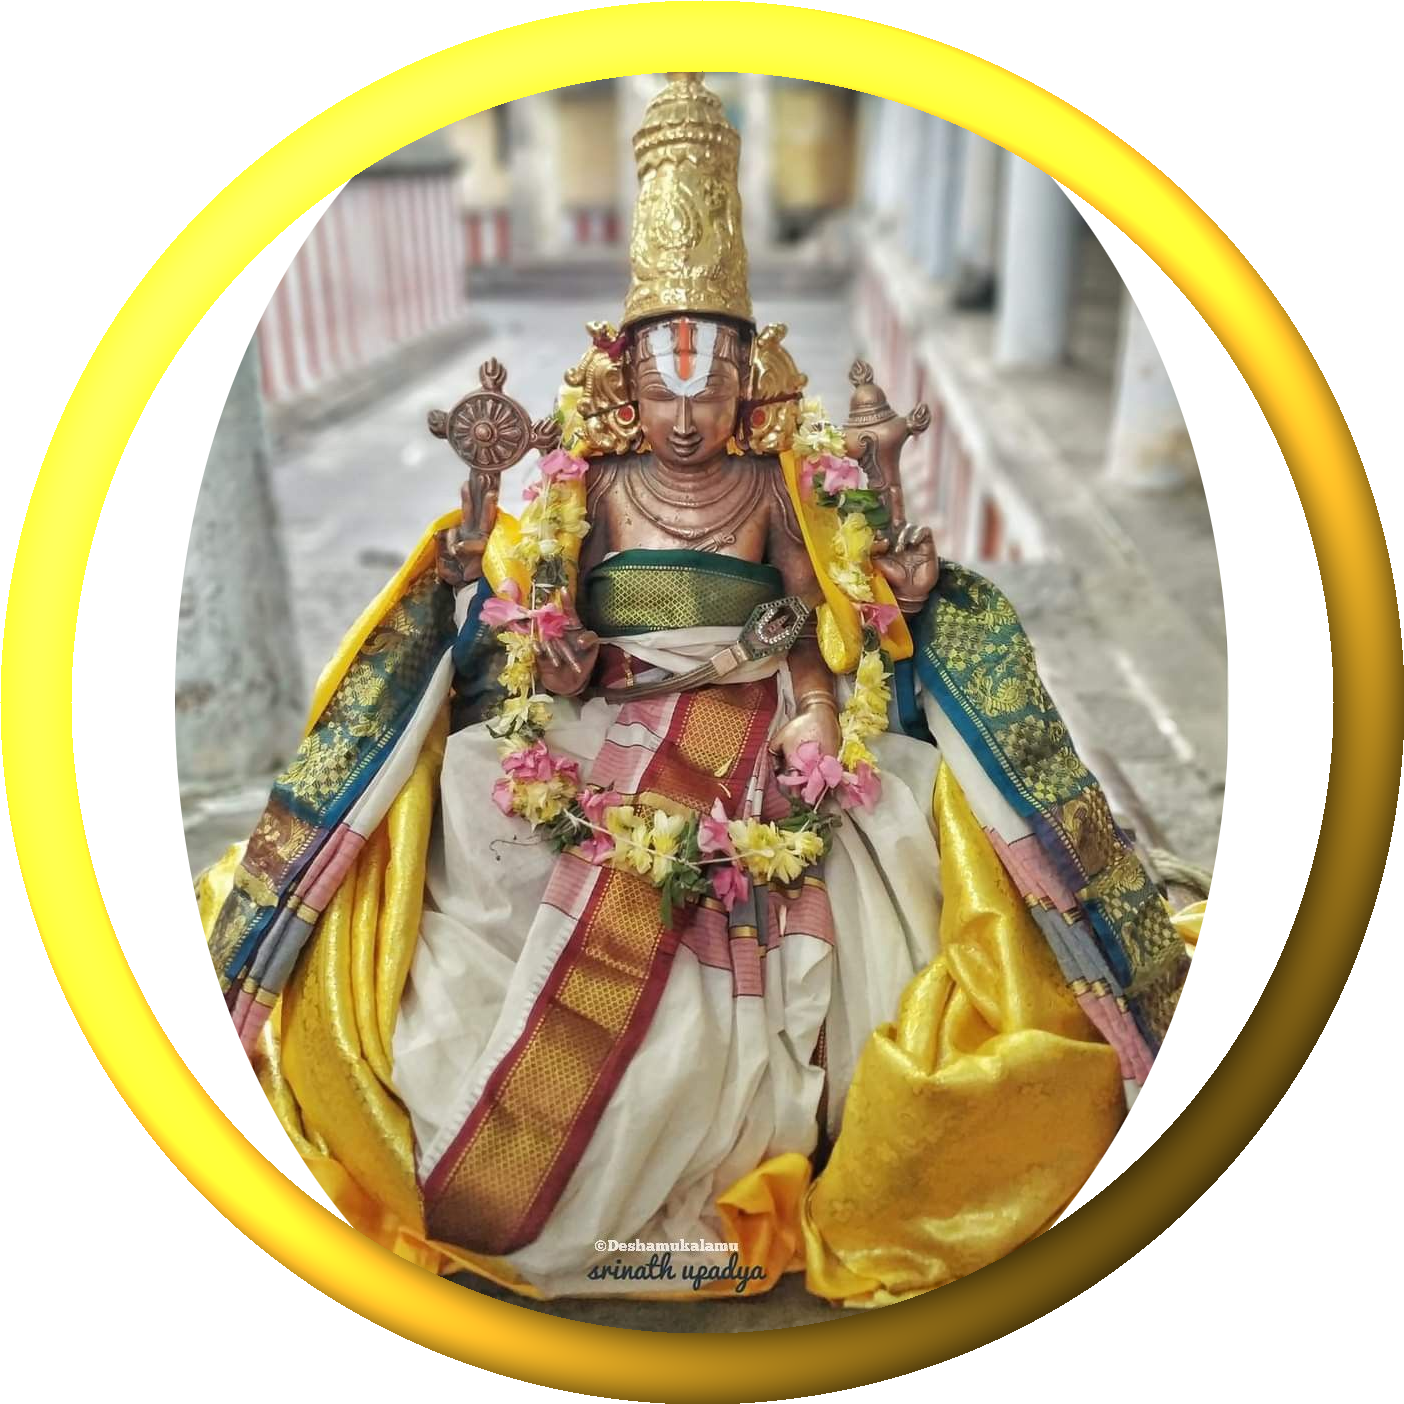
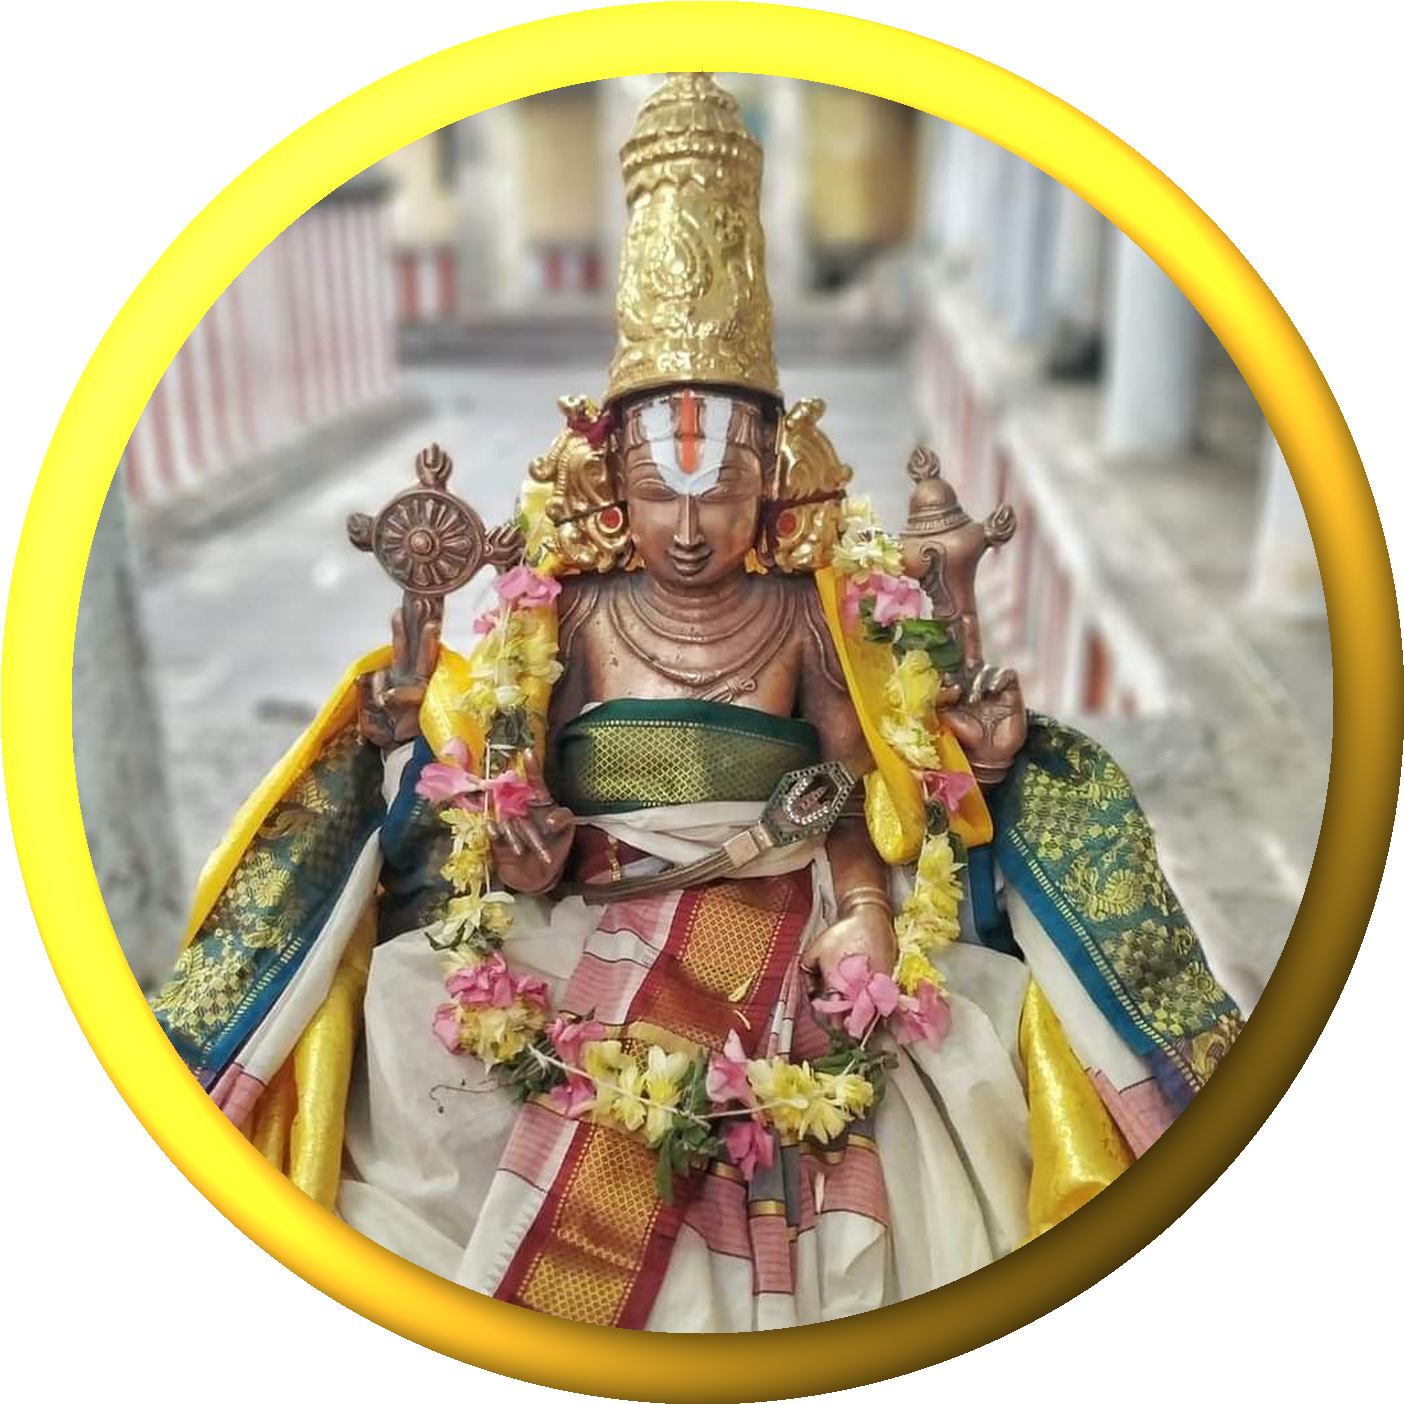
Made edits interactive

diff --git a/process_images.py b/process_images.py
@@ -1,9 +1,12 @@
 import os
 from collections import Counter
-from PIL import Image
+from PIL import Image, ImageTk
 import numpy as np
 import math
-
+try:
+    import tkinter as tk
+except ImportError:
+    import Tkinter as tk
 def get_background_color(image, default_color=(0, 0, 0, 0)):
     """
     Determines a suitable background color. First, it checks the corners for a
@@ -77,7 +80,8 @@ def get_content_radius(image):
     center_x, center_y = width / 2, height / 2
 
     # If the corners are transparent, it's likely non-rectangular content.
-    # In this case, we scan for the 'true' radius.
+    # In this case, we scan for the 'true' radius.s
+    
     corners_transparent = all(
         image.getpixel((x, y))[3] == 0
         for x in [0, width - 1] for y in [0, height - 1]
@@ -98,7 +102,153 @@ def get_content_radius(image):
         # to ensure the corners are not clipped.
         return math.ceil(math.sqrt(width**2 + height**2) / 2)
 
-def make_images_circular(input_dir="images", output_dir="images_circular", frame_width_percent=5.0, light_source="NW", overlay_frame=True):
+class InteractiveImageEditor:
+    def __init__(self, master, original_img, output_path, frame_radius, frame_width, bg_color, light_angle):
+        self.master = master
+        self.original_img = original_img
+        self.output_path = output_path
+        self.frame_radius = frame_radius
+        self.frame_width = frame_width
+        self.bg_color = bg_color
+        self.light_angle = light_angle
+
+        self.zoom = 1.0
+        self.offset_x = 0
+        self.offset_y = 0
+        self.pan_step = 10
+
+        # Determine a sensible canvas size that fits the screen
+        max_dim = self.frame_radius * 2
+        # Limit to 1/4 of screen real estate by using 50% of height
+        screen_height = master.winfo_screenheight() 
+        self.display_size = min(max_dim, int(screen_height * 0.5))
+        
+        self.canvas_size = self.display_size
+        self.canvas = tk.Canvas(master, width=self.canvas_size, height=self.canvas_size)
+        self.canvas.pack()
+
+        # Add a frame for controls
+        control_frame = tk.Frame(master)
+        control_frame.pack(pady=5)
+
+        save_button = tk.Button(control_frame, text="Save and Close", command=self.save_and_close)
+        save_button.pack(side=tk.LEFT, padx=5)
+
+        # Bind keys for interaction
+        # Use 'z' for zoom in to avoid conflict with 'i' in input fields
+        master.bind("<KeyPress-z>", self.zoom_in)
+        master.bind("<KeyPress-o>", self.zoom_out)
+        master.bind("<KeyPress-Up>", self.pan_up)
+        master.bind("<KeyPress-Down>", self.pan_down)
+        master.bind("<KeyPress-Left>", self.pan_left)
+        master.bind("<KeyPress-Right>", self.pan_right)
+
+        # Pre-render the static frame overlay for performance
+        self.frame_overlay = self._create_frame_overlay()
+
+        self.redraw()
+
+    def _create_frame_overlay(self):
+        """Creates the frame as a static overlay with a transparent center."""
+        image_diameter = self.frame_radius * 2
+        center = self.frame_radius
+        frame_inner_radius = self.frame_radius - self.frame_width
+        gold_color = np.array([197, 148, 31])
+
+        # Start with a transparent canvas
+        frame_arr = np.zeros((image_diameter, image_diameter, 4), dtype=np.uint8)
+
+        for y in range(image_diameter):
+            for x in range(image_diameter):
+                dx, dy = x - center, y - center
+                distance_sq = dx**2 + dy**2
+
+                # Draw the frame area
+                if frame_inner_radius**2 < distance_sq <= self.frame_radius**2:
+                    distance = math.sqrt(distance_sq)
+                    dist_from_inner_edge = distance - frame_inner_radius
+                    ridge_pos = (dist_from_inner_edge / self.frame_width) - 0.5
+                    ridge_val = (math.cos(ridge_pos * math.pi) + 1) / 2
+                    ridge_multiplier = 0.4 + ridge_val * 1.5
+
+                    light_multiplier = 1.0
+                    if self.light_angle is not None:
+                        pixel_angle = math.atan2(-dy, dx)
+                        angle_diff = math.cos(pixel_angle - self.light_angle)
+                        light_multiplier = 1.0 + angle_diff * 0.7
+
+                    final_multiplier = ridge_multiplier * light_multiplier
+                    frame_color = np.clip(gold_color * final_multiplier, 0, 255).astype(np.uint8)
+                    frame_arr[y, x] = [frame_color[0], frame_color[1], frame_color[2], 255]
+        
+        return Image.fromarray(frame_arr)
+
+    def redraw(self):
+        image_diameter = self.frame_radius * 2
+        
+        # 1. Create a transparent background layer. The bg_color will fill the space
+        #    between the image and the frame.
+        composite_img = Image.new("RGBA", (image_diameter, image_diameter), self.bg_color)
+
+        # 2. Paste the scaled and panned user image onto the composite image
+        scaled_width = int(self.original_img.width * self.zoom)
+        scaled_height = int(self.original_img.height * self.zoom)
+        scaled_img = self.original_img.resize((scaled_width, scaled_height), Image.LANCZOS)
+        paste_x = (image_diameter - scaled_width) // 2 + self.offset_x
+        paste_y = (image_diameter - scaled_height) // 2 + self.offset_y
+        composite_img.paste(scaled_img, (paste_x, paste_y), scaled_img if scaled_img.mode == 'RGBA' else None)
+
+        # 3. Paste the pre-rendered frame on top
+        # The frame overlay already has transparency, so it composites correctly.
+        composite_img.paste(self.frame_overlay, (0, 0), self.frame_overlay) 
+        self.final_image_to_save = composite_img
+
+        # 4. Scale the result for display in the GUI and update the canvas
+        display_image = self.final_image_to_save.resize((self.display_size, self.display_size), Image.LANCZOS)
+        self.tk_image = ImageTk.PhotoImage(display_image)
+        self.canvas.create_image(0, 0, anchor=tk.NW, image=self.tk_image)
+
+    def zoom_in(self, event):
+        self.zoom *= 1.1
+        self.redraw()
+
+    def zoom_out(self, event):
+        self.zoom /= 1.1
+        self.redraw()
+
+    def pan_up(self, event): self.offset_y -= self.pan_step; self.redraw()
+    def pan_down(self, event): self.offset_y += self.pan_step; self.redraw()
+    def pan_left(self, event): self.offset_x -= self.pan_step; self.redraw()
+    def pan_right(self, event): self.offset_x += self.pan_step; self.redraw()
+
+    def save_and_close(self):
+        # Before saving, create a final circular mask to ensure everything
+        # outside the frame is transparent.
+        image_diameter = self.frame_radius * 2
+        final_mask = Image.new("L", (image_diameter, image_diameter), 0)
+        mask_arr = np.array(final_mask)
+        center = self.frame_radius
+        radius_sq = self.frame_radius**2
+
+        for y in range(image_diameter):
+            for x in range(image_diameter):
+                if (x - center)**2 + (y - center)**2 <= radius_sq:
+                    mask_arr[y, x] = 255
+        
+        final_mask = Image.fromarray(mask_arr)
+        self.final_image_to_save.putalpha(final_mask)
+
+        self.final_image_to_save.save(self.output_path)
+        print(f"Saved adjusted image to '{self.output_path}'")
+        self.master.destroy()
+
+def launch_interactive_editor(image, output_path, frame_radius, frame_width, bg_color, light_angle):
+    root = tk.Tk()
+    root.title("Interactive Image Adjuster")
+    app = InteractiveImageEditor(root, image, output_path, frame_radius, frame_width, bg_color, light_angle)
+    root.mainloop()
+
+def make_images_circular(input_dir="images", output_dir="images_circular", frame_width_percent=5.0, light_source="NW", overlay_frame=False):
     """
     Finds all PNG images in an input directory, crops them to their
     content, and transforms them into a circular shape, saving them
@@ -111,9 +261,8 @@ def make_images_circular(input_dir="images", output_dir="images_circular", frame
                                      of the image's diagonal. If 0, no frame.
         light_source (str): Direction of the light source for the frame's
                             3D effect. Accepts "NW", "NE", "SW", "SE", "CE"
-                            (Center/Top-down).
-        overlay_frame (bool): If True, the frame is drawn on top of the image's
-                              outer edge. If False, it's added around the image.
+                            (Center/Top-down). (Note: overlay_frame is deprecated
+                            in favor of a more robust interactive mode).
     """
     if not os.path.isdir(input_dir):
         print(f"Error: Input directory '{input_dir}' not found.")
@@ -162,103 +311,83 @@ def make_images_circular(input_dir="images", output_dir="images_circular", frame
                     # will be tight; for rectangular, it will be half the diagonal.
                     pic_radius = get_content_radius(cropped_img)
                     pic_diameter = pic_radius * 2
-
+                    
                     # Calculate frame width in pixels from the percentage
                     frame_width = math.ceil(pic_diameter * (frame_width_percent / 100.0))
  
-                    square_img = Image.new("RGBA", (pic_diameter, pic_diameter), (0, 0, 0, 0))
-                    # Calculate coordinates to paste the cropped image at the center
-                    paste_x = (pic_diameter - width) // 2
-                    paste_y = (pic_diameter - height) // 2
-                    square_img.paste(cropped_img, (paste_x, paste_y))
- 
-                    # Determine total size and frame boundaries based on overlay setting
-                    if overlay_frame:
-                        total_diameter = pic_diameter
-                        frame_inner_radius = pic_radius - frame_width
-                    else:
-                        total_diameter = pic_diameter + (frame_width * 2)
-                        frame_inner_radius = pic_radius
+                    # The frame is now always added around the picture content.
+                    total_diameter = pic_diameter + (frame_width * 2)
+                    frame_inner_radius = pic_radius
  
                     total_radius = total_diameter / 2
  
-                    # b) Determine the predominant background color from the cropped image.
-                    bg_color = get_background_color(cropped_img, default_color=(51, 51, 51, 255))
+                    # b) Determine a fill color for the background.
+                    # First, try to get a background color from the edges.
+                    bg_color = get_background_color(cropped_img, default_color=None)
 
-                    # Create the final canvas. Initialize with transparency.
-                    final_img = Image.new("RGBA", (total_diameter, total_diameter), (0, 0, 0, 0))
-                    
-                    source_arr = np.array(square_img)
-                    final_arr = np.array(final_img)
+                    # If no edge color was found, calculate the average color of the content itself.
+                    # This is used to fill transparent gaps between the content and the frame.
+                    if bg_color is None:
+                        opaque_pixels = [p for p in cropped_img.getdata() if p[3] > 128]
+                        if opaque_pixels:
+                            avg_r = sum(p[0] for p in opaque_pixels) // len(opaque_pixels)
+                            avg_g = sum(p[1] for p in opaque_pixels) // len(opaque_pixels)
+                            avg_b = sum(p[2] for p in opaque_pixels) // len(opaque_pixels)
+                            bg_color = (avg_r, avg_g, avg_b, 255)
+                        else: # Fallback for fully transparent cropped images
+                            bg_color = (51, 51, 51, 255)
 
-                    # Center of the new circular image
-                    center_x, center_y = total_radius, total_radius
+                    # Create the final canvas for the automatic result.
+                    # The area between the image and the frame is filled with the bg_color.
+                    final_img = Image.new("RGBA", (total_diameter, total_diameter), bg_color)
+                    # Paste the cropped image in the center
+                    final_img.paste(cropped_img, ((total_diameter - width) // 2, (total_diameter - height) // 2), cropped_img)
 
-                    # Base color for the golden frame
-                    gold_color = np.array([197, 148, 31]) # A richer, deeper gold color
-
+                    # Create a circular mask and apply it
+                    mask = Image.new('L', (total_diameter, total_diameter), 0)
+                    mask_arr = np.array(mask)
+                    center = total_radius
+                    radius_sq = total_radius**2
                     for y in range(total_diameter):
                         for x in range(total_diameter):
-                            # Calculate distance from the center of the new image
-                            dx, dy = x - center_x, y - center_y
-                            distance_sq = dx**2 + dy**2 # Use squared distance for performance
+                            if (x - center)**2 + (y - center)**2 <= radius_sq:
+                                mask_arr[y, x] = 255
+                    mask = Image.fromarray(mask_arr)
+                    final_img.putalpha(mask)
 
-                            # Pre-calculate squared radii for comparison
-                            pic_radius_sq = (pic_radius)**2
-                            frame_inner_radius_sq = frame_inner_radius**2 if frame_inner_radius > 0 else 0
-                            total_radius_sq = total_radius**2
+                    # Ask user for action
+                    while True:
+                        prompt = (f"\nAction for '{filename}':\n"
+                                  "  (y) Save automatically\n"
+                                  "  (v) View automatic result\n"
+                                  "  (e) Edit manually\n" 
+                                  "  (s) Skip this file [default]\n"
+                                  "  (q) Quit program\n"
+                                  "Choose an option (y/v/e/q) or press Enter to skip: ")
+                        answer = input(prompt).lower()
 
-                            # Fill background color inside the frame area first
-                            if distance_sq <= total_radius_sq:
-                                final_arr[y, x] = bg_color
-
-                            # --- Draw the circular picture content ---
-                            # Check if the pixel is within the picture's circular area
-                            if distance_sq <= pic_radius_sq:
-                                # Map the point in the circle back to the square source image.
-                                orig_x = int(pic_radius + dx)
-                                orig_y = int(pic_radius + dy)
-
-                                # Draw the picture pixel if it's not transparent and inside the frame's
-                                # inner boundary (unless the frame overlays the image).
-                                if not (overlay_frame and distance_sq > frame_inner_radius_sq):
-                                    # Check bounds to be safe
-                                    pixel = source_arr[orig_y, orig_x]
-                                    if pixel[3] > 0: # Only draw non-transparent pixels
-                                        final_arr[y, x] = pixel
-
-                            # --- Draw the golden frame ---
-                            # The frame is drawn between its inner radius and the total radius
-                            if frame_width > 0 and frame_inner_radius_sq < distance_sq <= total_radius_sq:
-                                distance = math.sqrt(distance_sq) # Calculate true distance only when needed
-                                # 1. Calculate ridge effect (brighter in the middle of the frame)
-                                dist_from_inner_edge = distance - frame_inner_radius
-                                # Normalize from -0.5 (inner) to 0.5 (outer) across the frame width
-                                ridge_pos = (dist_from_inner_edge / frame_width) - 0.5
-                                # Use cosine for a smooth curve, peaking at the center (ridge_pos=0)
-                                ridge_val = (math.cos(ridge_pos * math.pi) + 1) / 2  # Range 0..1
-                                ridge_multiplier = 0.4 + ridge_val * 1.5 # Remap to 0.4..1.9 for very high contrast
-
-                                # 2. Calculate lighting effect (highlight/shadow)
-                                light_multiplier = 1.0
-                                if light_angle is not None: # Not 'CE'
-                                    pixel_angle = math.atan2(-dy, dx)
-                                    # Cosine of angle difference determines highlight
-                                    angle_diff = math.cos(pixel_angle - light_angle) # Range -1..1
-                                    # Map cos result to a stronger brightness multiplier (e.g., 0.3..1.7)
-                                    light_multiplier = 1.0 + angle_diff * 0.7
-
-                                # 3. Combine effects and calculate final color
-                                final_multiplier = ridge_multiplier * light_multiplier
-                                frame_color = np.clip(gold_color * final_multiplier, 0, 255).astype(np.uint8)
-                                
-                                # Assign RGBA value
-                                final_arr[y, x] = [frame_color[0], frame_color[1], frame_color[2], 255]
-
-                    # Convert the numpy array back to an image and save it
-                    result_img = Image.fromarray(final_arr)
-                    result_img.save(output_path)
-                    print(f"Processed '{filename}' and saved to '{output_path}'")
+                        if answer in ['y', 'yes']:
+                            final_img.save(output_path)
+                            print(f"Saved '{filename}' to '{output_path}'")
+                            break
+                        elif answer in ['v', 'view']:
+                            print("Showing automatic result. Close the image window to continue...")
+                            final_img.show(title=f"Automatic Result for {filename}")
+                            # Loop continues, asking for a new action after viewing.
+                        elif answer in ['e', 'edit']:
+                            print("Launching interactive editor... (Use arrows to pan, 'z'/'o' to zoom)")
+                            # The interactive editor places the frame around the content,
+                            # so the frame radius is the picture radius.
+                            launch_interactive_editor(cropped_img, output_path, pic_radius, frame_width, bg_color, light_angle)
+                            break
+                        elif answer in ['s', 'skip', '']: # Empty string for Enter key
+                            print(f"Skipped '{filename}'.")
+                            break
+                        elif answer in ['q', 'quit']:
+                            print("Quitting program.")
+                            return # Exit the entire function
+                        else:
+                            print("Invalid input. Please choose one of the options.")
 
             except Exception as e:
                 print(f"Could not process '{filename}'. Error: {e}")
@@ -266,4 +395,4 @@ def make_images_circular(input_dir="images", output_dir="images_circular", frame
 if __name__ == "__main__":
     # Assuming your images are in a subfolder named 'images'
     # relative to where you run this script.
-    make_images_circular(frame_width_percent=5.0, light_source="NW", overlay_frame=True)
+    make_images_circular(frame_width_percent=5.0, light_source="NW")
